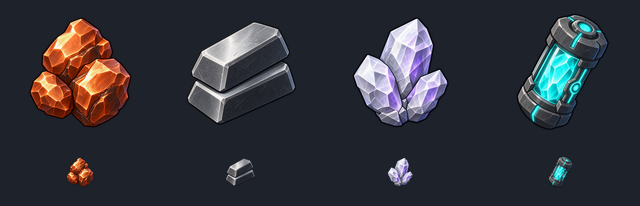
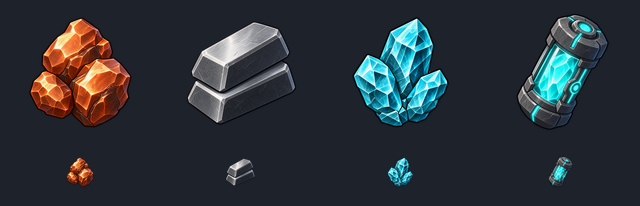
아트: 리튬 아이콘 색상을 기존 타일의 시안·청록색에 맞춤

Changed region(s): [[0.5312, 0.0874, 0.7188, 0.6117], [0.5938, 0.7573, 0.6562, 0.9029]]

diff --git a/work_process/inventory_item_icons.md b/work_process/inventory_item_icons.md
@@ -8,7 +8,7 @@
 
 - `Assets/_Project/Art/Icons/icon_copper.png`: 주황빛 구리 덩어리.
 - `Assets/_Project/Art/Icons/icon_iron.png`: 은회색 철 주괴.
-- `Assets/_Project/Art/Icons/icon_lithium.png`: 연보라·백색 결정.
+- `Assets/_Project/Art/Icons/icon_lithium.png`: 기존 리튬 타일과 맞춘 시안·청록 결정.
 - `Assets/_Project/Art/Icons/icon_engine_fuel.png`: 청록 결정이 들어 있는 연료 캡슐.
 - 각 PNG의 `.meta`와 `Data/Minerals/Mineral_Copper.asset`, `Mineral_Iron.asset`, `Mineral_Lithium.asset`의 `icon` 참조.
 
@@ -28,6 +28,14 @@
 팀원 확인 순서: 최신 PR 적용 → Bootstrap에서 시작 → 인벤토리 열기 → 네 품목의 이미지·이름·수량 확인. 엔진 연료는 원래 각성 문양 석재와 같은 이미지를 사용했으므로, 이제 블록 대신 캡슐로 보이는 것이 정상이다.
 
 원본 파일은 작업자 로컬 `backups/inventory-icons-20260915`에 SHA256 검증 후 보관했다. 고해상도 생성본과 검수 중간 파일은 Assets 밖에 보관하며 PR에는 최종 게임용 PNG와 문서 미리보기만 포함한다.
+
+## 리튬 색상 후속 수정
+
+팀원 피드백에 따라 연보라 리튬 아이콘을 실제 `ore_lithium_01.png` 타일의 시안·청록 팔레트로 수정했다. 결정 군집의 형태와 인벤토리 스타일은 유지했다. 리튬 PNG와 문서 미리보기만 교체하며 다른 아이콘·타일·메타·품목 데이터는 유지한다. 256px 크기, RGBA, 모서리 알파 0 및 34px 가독성을 재검수했다.
+
+내장 image_gen 편집 프롬프트:
+
+> Use case: precise-object-edit. Image 1 is the EDIT TARGET: existing lithium inventory crystal cluster. Image 2 is COLOR REFERENCE ONLY: actual in-game lithium ore tile, turquoise cyan crystals in dark stone. Change ONLY the color/material palette of Image 1 to closely match the crystals in Image 2. Replace ALL lavender, purple and lilac faces with saturated turquoise/cyan, bright icy cyan edge highlights and dark teal facet shadows. Preserve the existing three-crystal cluster composition, exact silhouette, facets, 3/4 camera, charcoal outlines, texture detail, size and padding. Keep a standalone crystal item, do not copy the tile stone or repeating pattern. No capsule, no metal housing, no added glow or particles. Genuine transparent alpha background, no black backdrop, checkerboard, floor, cast shadow, UI, frame, or text. Crisp readable inventory icon at 34px.
 
 ## 제작 방식과 최종 프롬프트 세트
 
